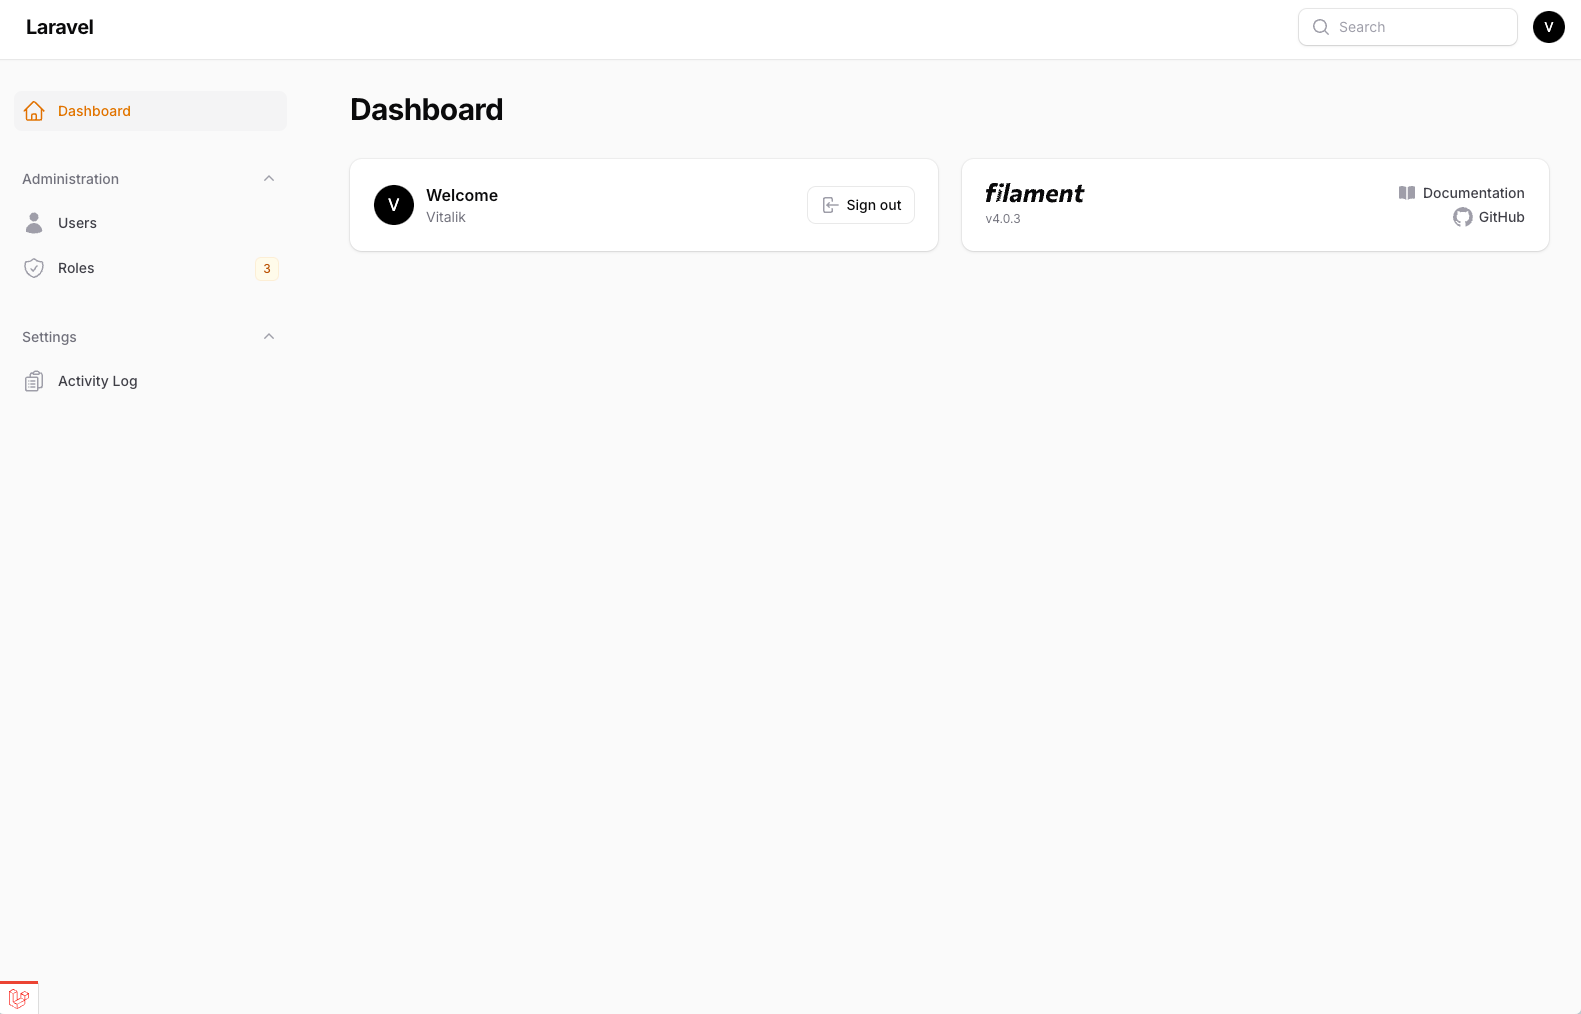
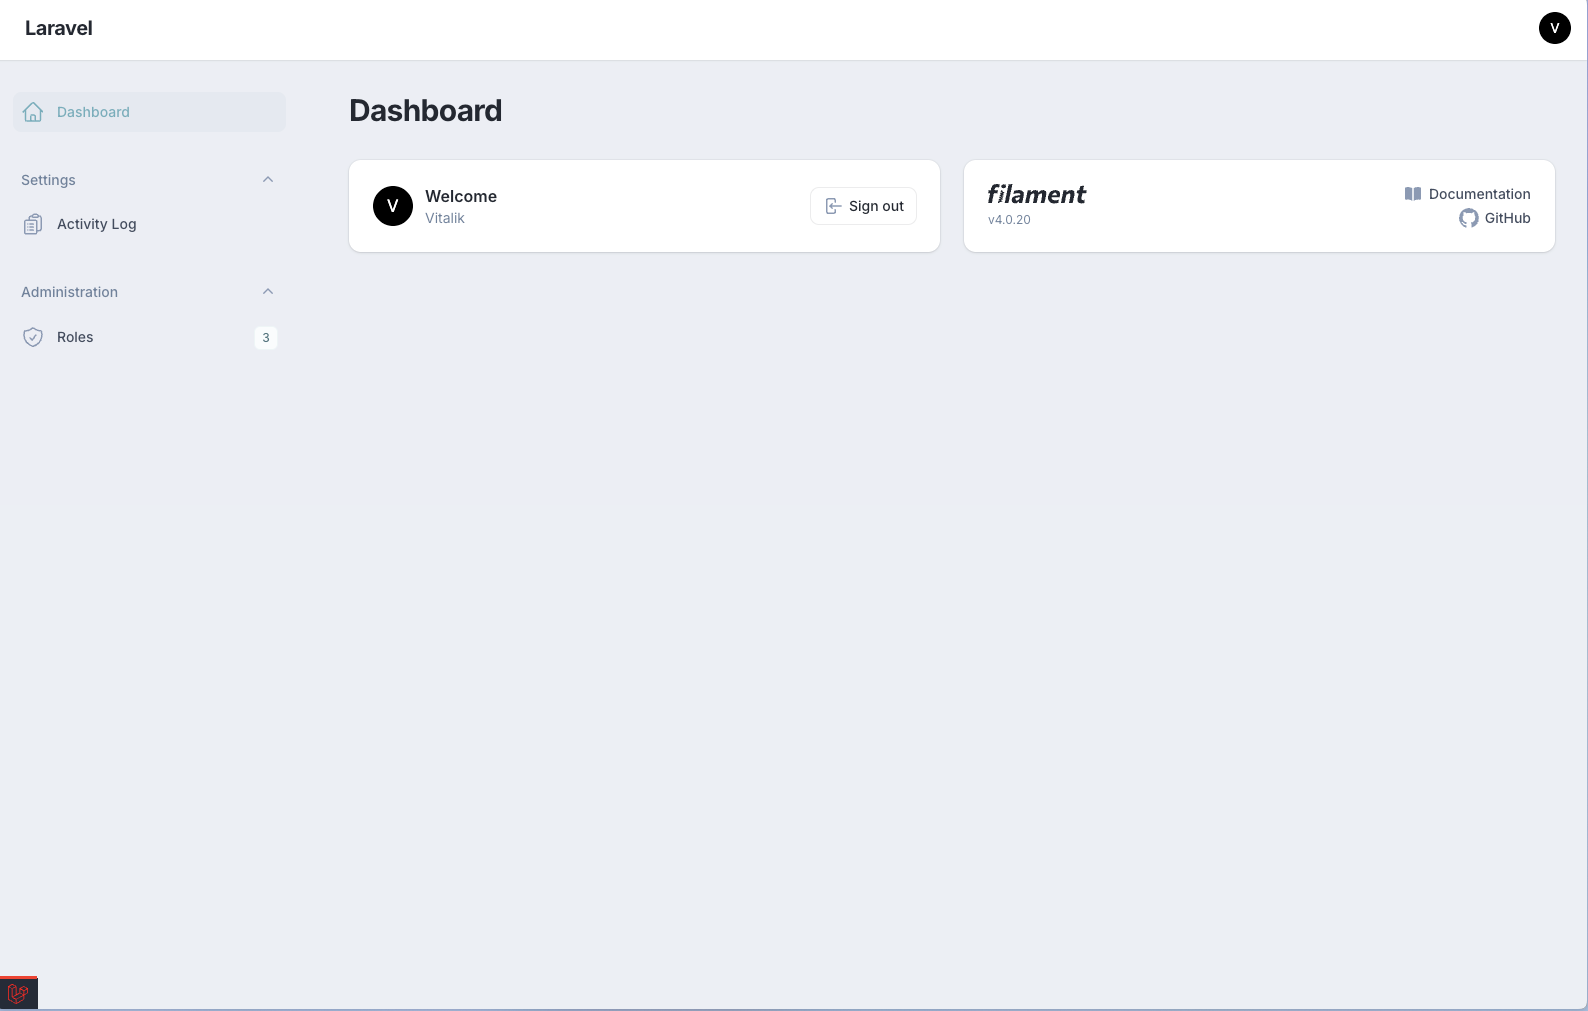
Close #16, add Nord theme

diff --git a/vite.config.js b/vite.config.js
@@ -8,6 +8,7 @@ export default defineConfig({
             input: [
                 'resources/css/app.css',
                 'resources/js/app.js',
+                'vendor/andreia/filament-nord-theme/resources/css/theme.css',
                 'resources/css/filament/admin/theme.css'
             ],
             refresh: true,

diff --git a/app/Providers/Filament/AdminPanelProvider.php b/app/Providers/Filament/AdminPanelProvider.php
@@ -2,6 +2,7 @@
 
 namespace App\Providers\Filament;
 
+use Andreia\FilamentNordTheme\FilamentNordThemePlugin;
 use BezhanSalleh\FilamentShield\FilamentShieldPlugin;
 use Filament\Http\Middleware\Authenticate;
 use Filament\Http\Middleware\AuthenticateSession;
@@ -48,6 +49,7 @@ class AdminPanelProvider extends PanelProvider
             ])
             ->plugins([
                 FilamentShieldPlugin::make(),
+                FilamentNordThemePlugin::make(),
                 FilamentBackgroundsPlugin::make(),
             ])
             ->middleware([
